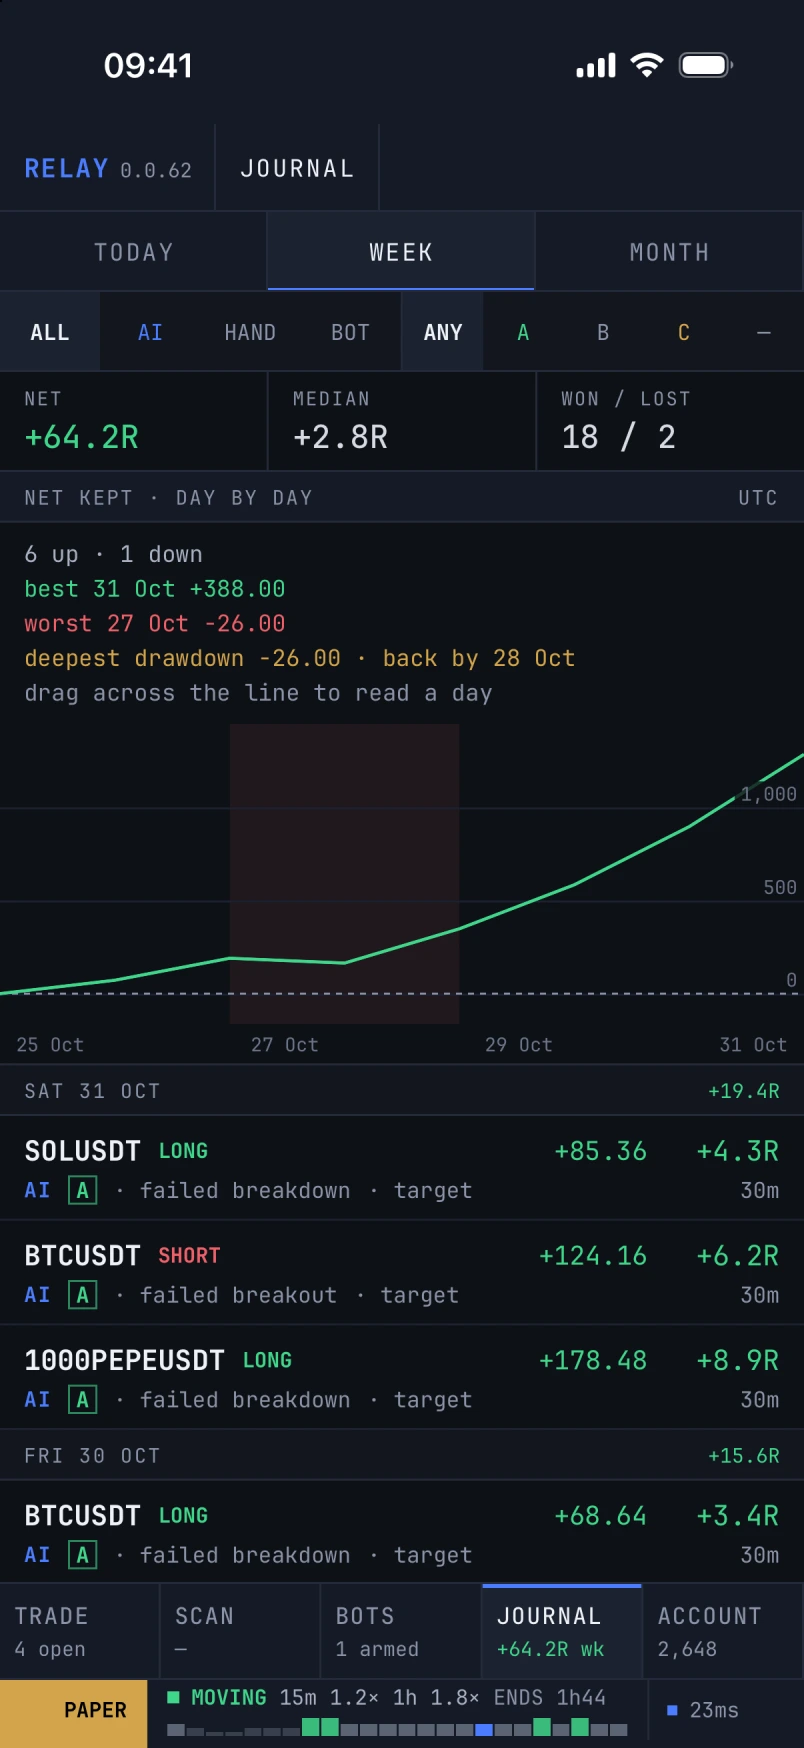
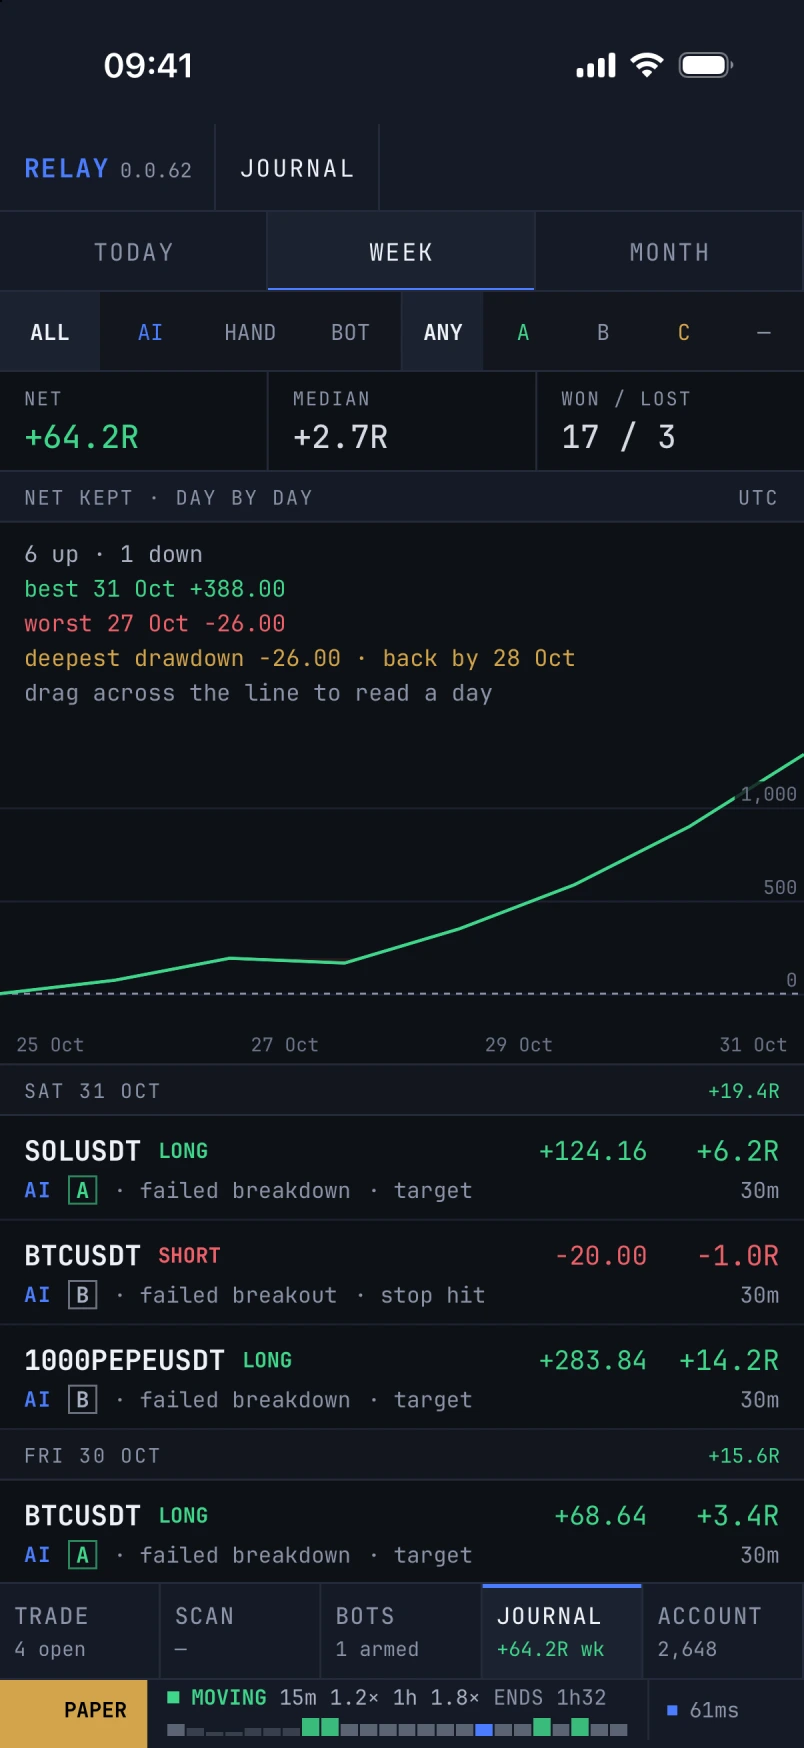
Show mixed journal grades and a visible loss with corrected drawdown

diff --git a/docs/ios-screenshots.md b/docs/ios-screenshots.md
@@ -13,7 +13,9 @@ horizontally on phones so each screenshot stays readable.
 - Four positions: PEPE short +$186; SOL long +$96; ETH long +$64;
   BTC long +$18. Three stops lock profit; the BTC stop risks $20.
 - Seven UTC days: +72, +118, -26, +184, +236, +312, +388.
-- 18 wins, 2 losses; median +2.8R; the $26 drawdown recovers the next day.
+- A and B grades are mixed throughout; the newest visible rows include an A win,
+  a B stop loss (-$20 / -1R), and a B win.
+- 17 wins, 3 losses; median +2.7R; the $26 drawdown recovers the next day.
 
 Account and trade values are illustrative. The chart uses unmodified historical
 market observations saved in `scripts/fixtures/pepe-market.json`: Binance
@@ -47,6 +49,11 @@ positions view, `--position`, and `--journal`. The explicit launch arguments
 avoid stale simulator preferences. Use `simctl status_bar` for 9:41, full Wi-Fi
 and cellular bars, and a full discharging battery. Wait for the charts to
 finish loading and inspect a second capture; simulator images can lag.
+
+The journal capture also uses the native `DrawdownArea` renderer fix
+([relay-terminal PR #660](https://github.com/mico/relay-terminal/pull/660)): shade
+only between the underwater curve and its peak, interpolating the recovery
+crossing instead of painting a full-height band through the recovery day.
 
 These assets were captured on iPhone 17 Pro at 1206×2622 with Relay 0.0.62,
 then encoded with `cwebp -q 92 -resize 804 1748 input.png -o output.webp`.
